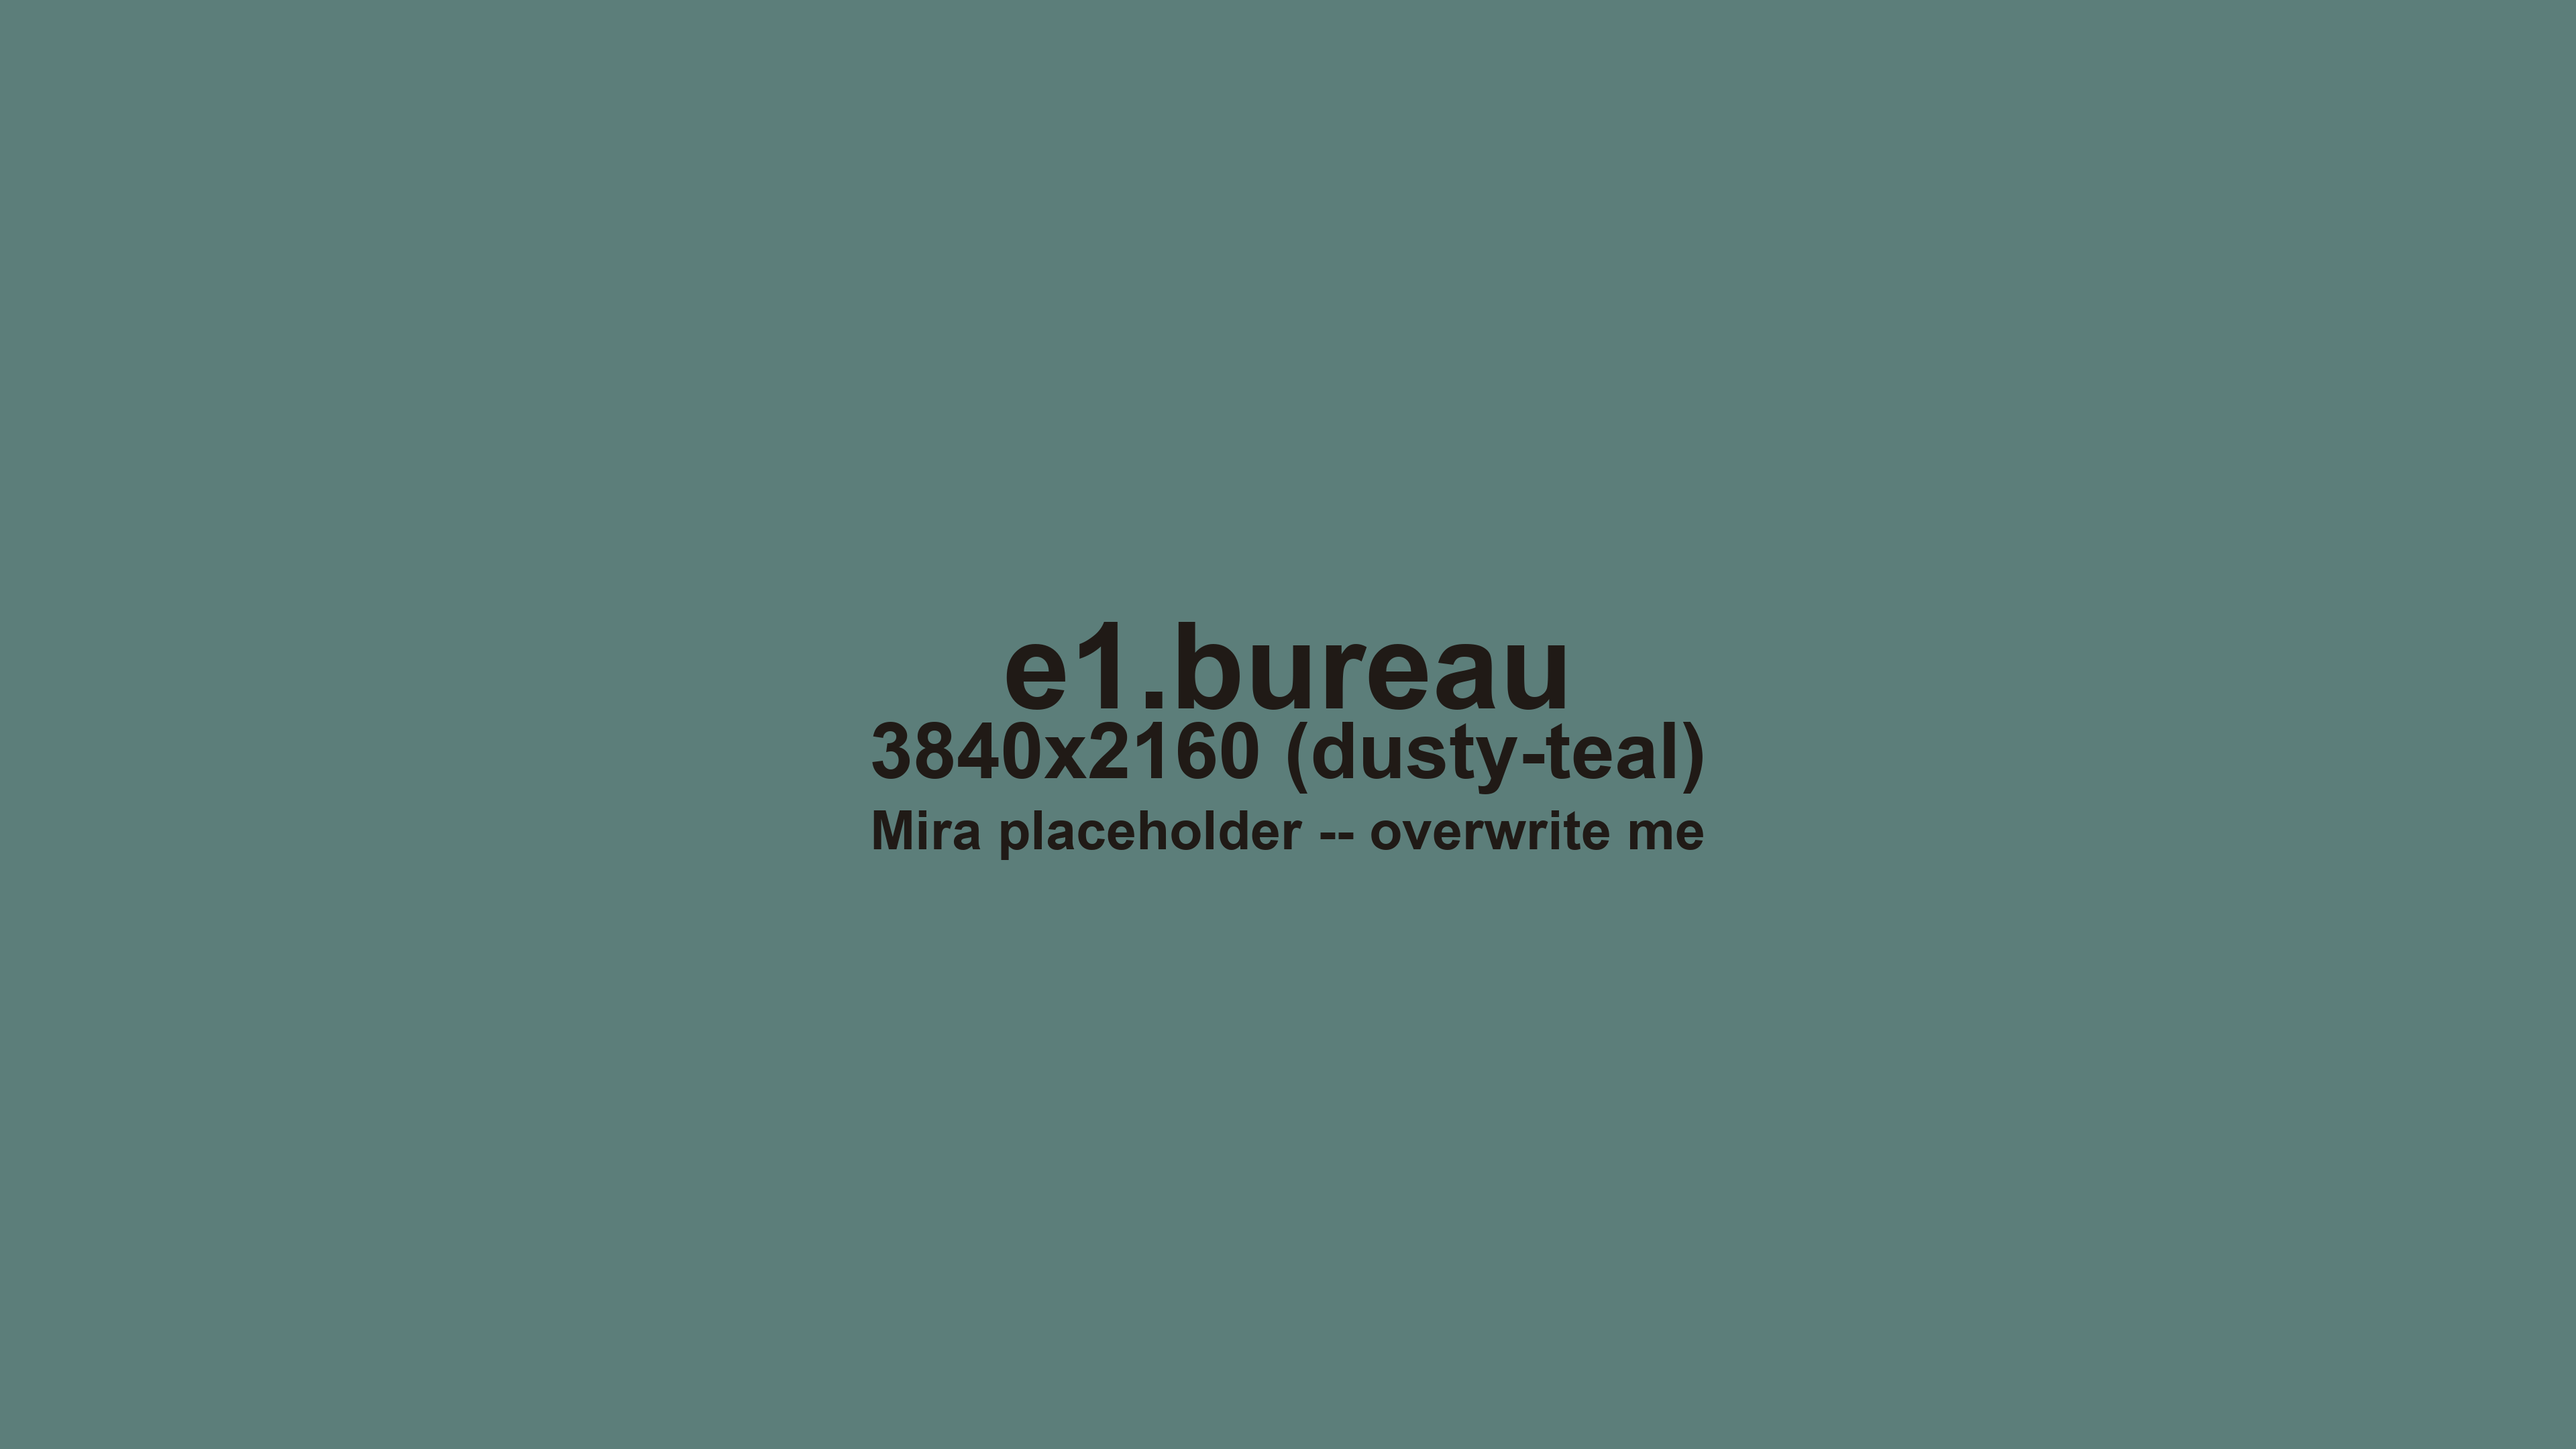
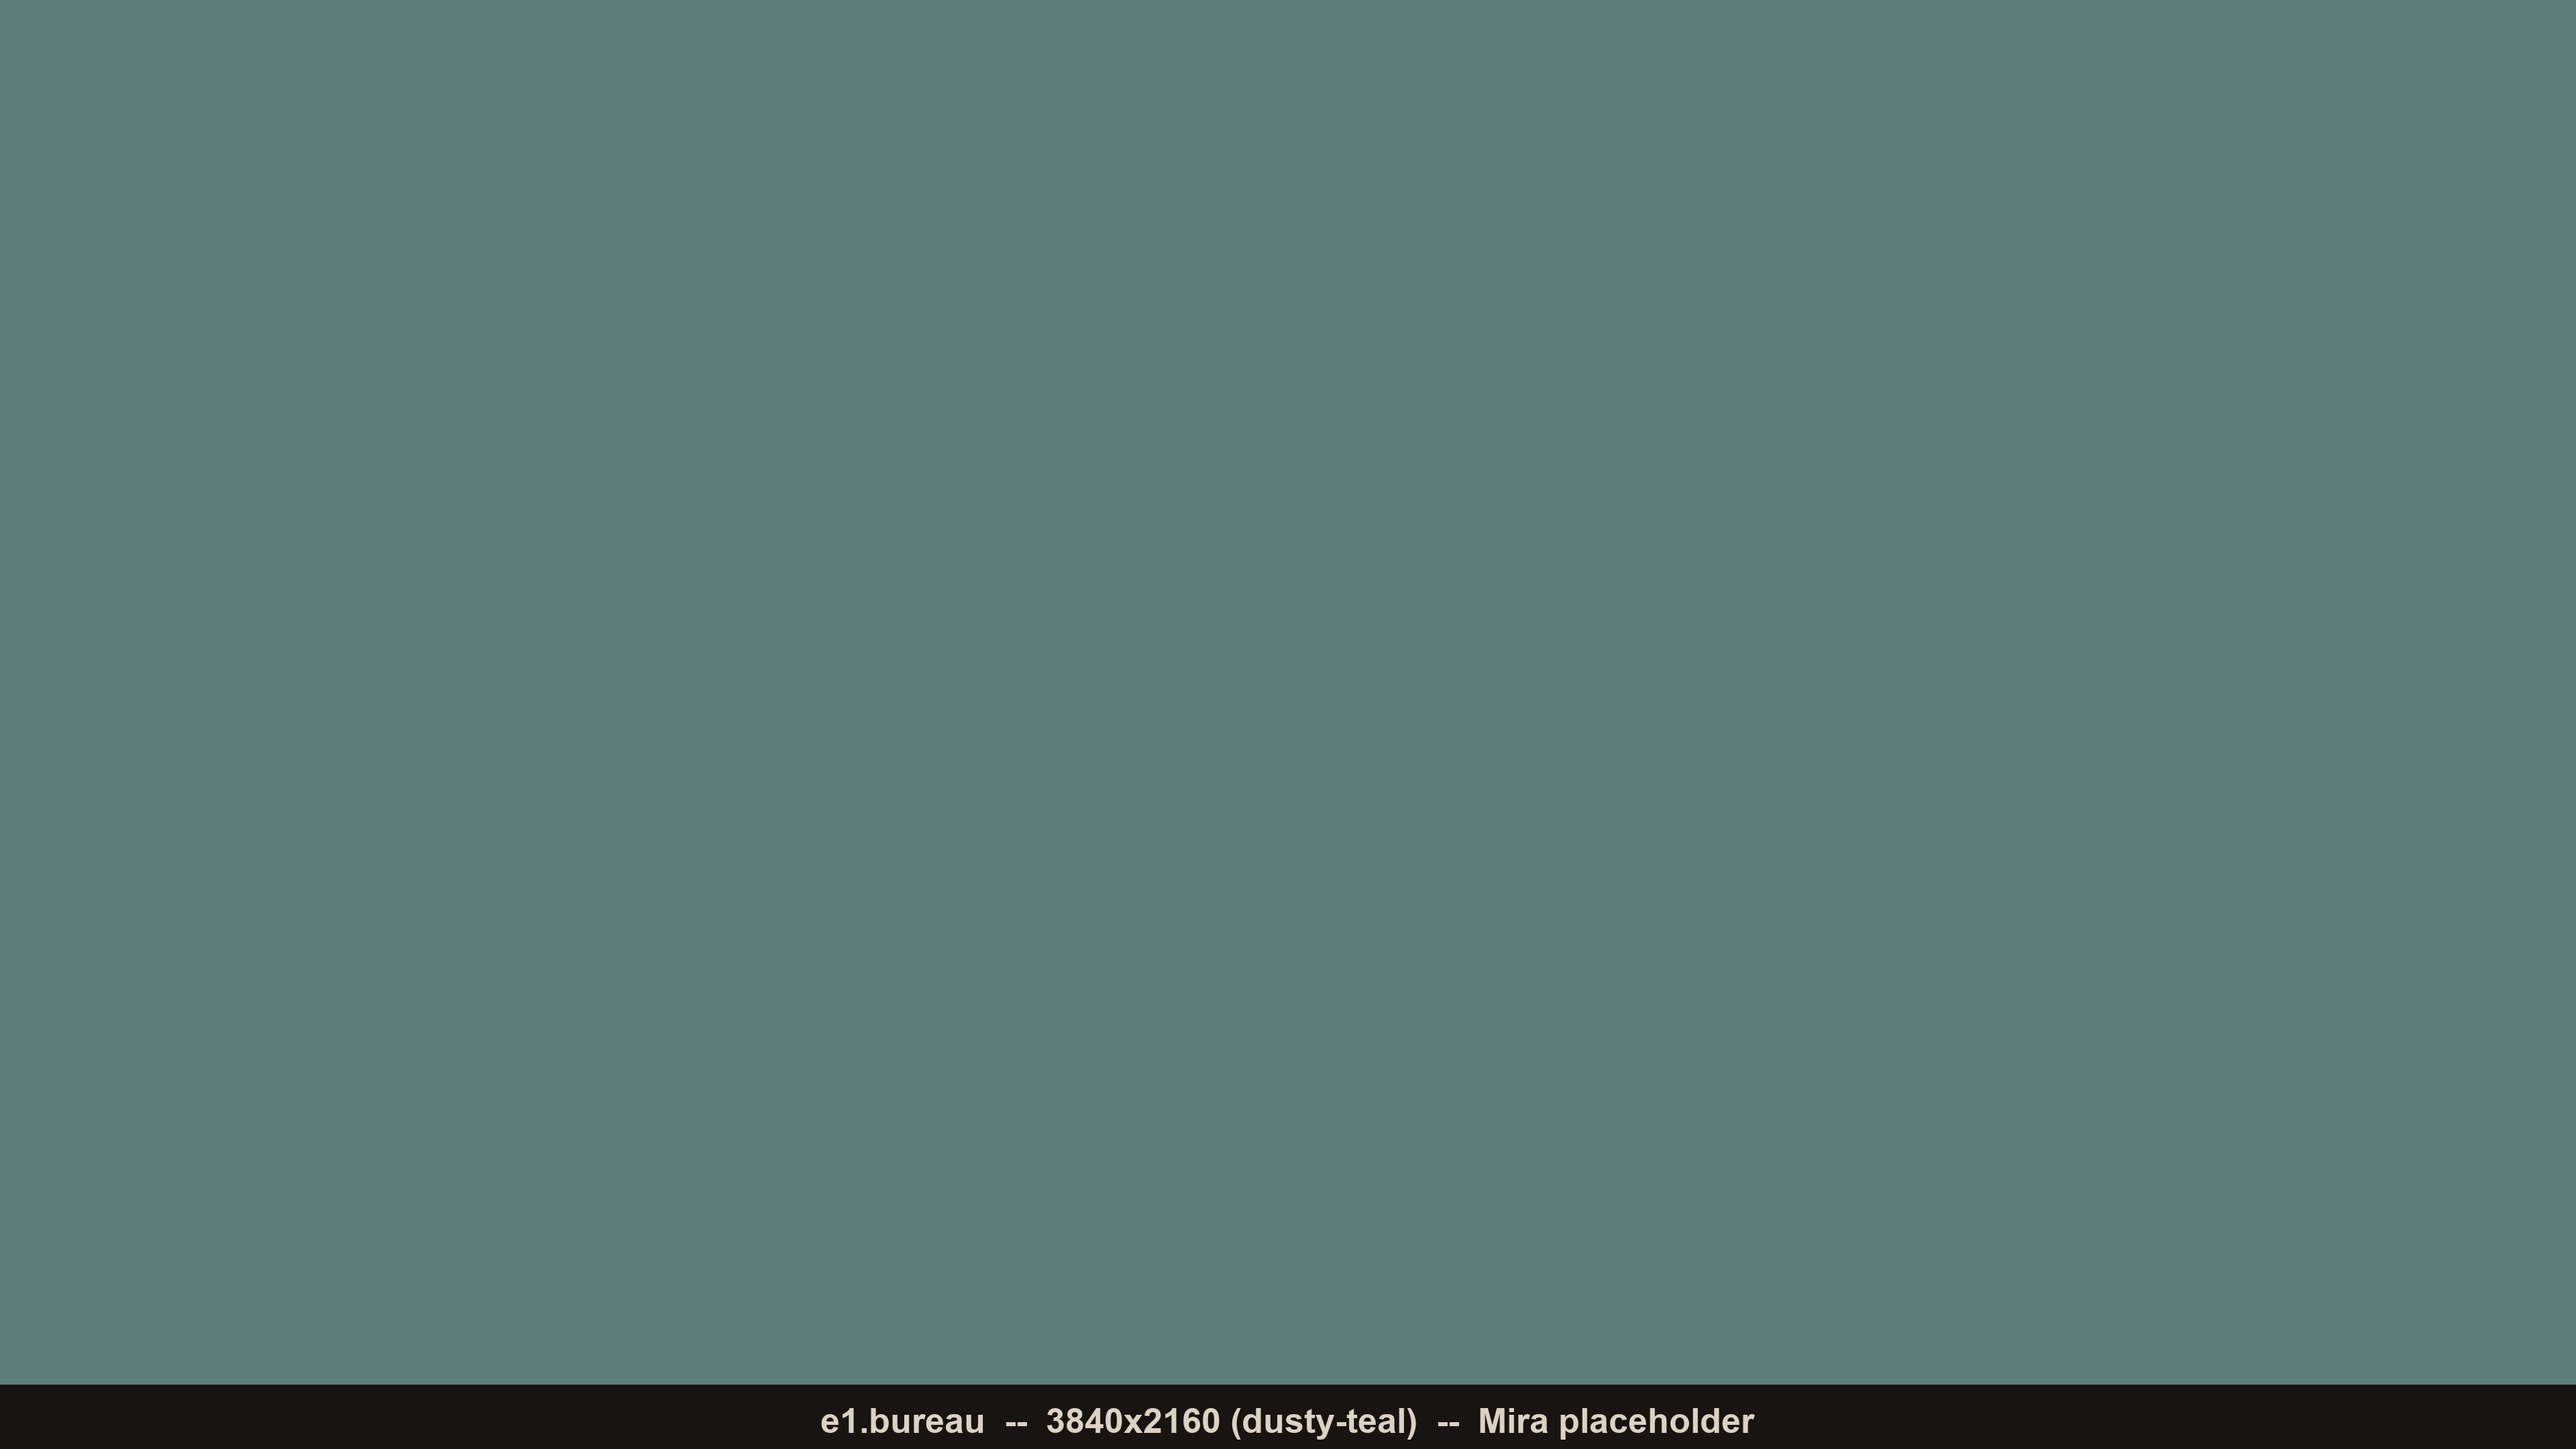
fix(client): E1 polish -- placeholder text no longer transpaire under buttons
The 3-lines-of-centered-text layout from generate_asset_placeholders.py
landed at the visible center of every placeholder PNG. When a placeholder
served as a frame asset (e1.buttons_frame is the salient case), the text
stack rendered behind the [03] Reglages techniques button in E1 Title --
fragments of "e1.buttons_frame", "2048x2048 (weathered-grey)" and "Mira
placeholder -- overwrite me" all visible in the gaps between buttons.

Move identification metadata into a thin dark slate bar along the bottom
edge (~8% of image height, capped) with a single compact line. The center
stays a clean color aplat. With KeepAspectCovered on a 560x440 UI rect,
the slate lands within the existing 32px bottom margin of ButtonsFrame,
so it does not chevauche the [04] Refermer button either.

Regenerated all 26 placeholders with --force. No real Mira art was
overwritten -- inspection (color count + file size) confirmed every
PNG under client/assets/wayfinders_visual_assets/ was still a
script-generated placeholder.

Changed region(s): [[0.0, 0.9306, 1.0, 1.0], [0.3125, 0.4343, 0.6562, 0.5894]]

diff --git a/tools/generate_asset_placeholders.py b/tools/generate_asset_placeholders.py
@@ -11,11 +11,19 @@ Usage
 The script is idempotent: existing PNGs are skipped unless ``--force`` is
 passed. Each placeholder is a solid-color rectangle (palette derived from
 Mira's locked palette, picked deterministically by hashing the asset key)
-with three centered text lines:
+plus a thin dark identification bar along the bottom edge with a single
+compact label line:
 
-    1. The asset key (e.g. ``e1.bureau``).
-    2. The intended resolution parsed from the filename (e.g. ``3840x2160``).
-    3. ``Mira placeholder -- overwrite me``.
+    e1.buttons_frame -- 2048x2048 (weathered-grey)
+
+The center of the image stays a clean color aplat. Rationale: when a
+placeholder PNG is used as a frame asset (e.g. ``e1.buttons_frame``)
+underneath UI buttons, the legacy 3-lines-of-centered-text layout would
+visibly transpaire between/around the buttons. Concentrating the
+identification metadata into a thin bottom slate keeps the asset
+identifiable when opened in a file explorer or the Godot import preview,
+without polluting the visible center of the placeholder when the image
+is composited under UI. (Bug fix 2026-05-09.)
 
 Naming convention parsed from filename: ``..._<W>x<H>.png``. If the regex
 fails the file is skipped with a clear warning -- the key map should be
@@ -63,9 +71,9 @@ PALETTE = [
     ("weathered-grey", (112, 110, 102)),  # #706E66
 ]
 
-# Dark stamp-ink color for the centered text overlay. Stays readable on every
-# palette entry above.
-TEXT_COLOR = (32, 26, 22)
+# Slate (bottom identification bar) colors.
+SLATE_BG = (24, 20, 18)  # near-black ink
+SLATE_FG = (220, 210, 192)  # parchment cream
 
 RES_REGEX = re.compile(r"_(\d+)x(\d+)\.png$", re.IGNORECASE)
 
@@ -117,47 +125,45 @@ def render_placeholder(
     palette_name: str,
     palette_rgb: tuple[int, int, int],
 ) -> None:
+    """Render the placeholder. Center is a clean color aplat ; identification
+    metadata sits in a thin slate bar at the bottom edge so it does not
+    transpaire through UI when the placeholder is used as a frame.
+    """
     out_path.parent.mkdir(parents=True, exist_ok=True)
 
     image = Image.new("RGB", (width, height), palette_rgb)
     draw = ImageDraw.Draw(image)
 
-    # Pick a text size that scales with the smaller image dimension. We keep
-    # all three text lines comfortably inside the placeholder regardless of
-    # aspect ratio.
-    base_size = max(24, min(width, height) // 12)
-    title_font = find_font(base_size)
-    subtitle_font = find_font(int(base_size * 0.65))
-    footnote_font = find_font(int(base_size * 0.45))
+    # Slate bar: 8% of the image height, capped to a sane absolute range so
+    # tiny 256x256 markers still get a readable label and large 3840x2160
+    # backgrounds do not waste 300px of vertical real estate.
+    slate_h = max(28, min(height // 12, 96))
+    slate_top = height - slate_h
+    draw.rectangle((0, slate_top, width, height), fill=SLATE_BG)
 
-    line1 = asset_key
-    line2 = f"{width}x{height} ({palette_name})"
-    line3 = "Mira placeholder -- overwrite me"
+    # Single-line identification label inside the slate bar.
+    label = f"{asset_key}  --  {width}x{height} ({palette_name})  --  Mira placeholder"
+    # Aim for label height around 60% of slate height ; clamp to a font we
+    # can actually load.
+    label_size = max(12, int(slate_h * 0.55))
+    label_font = find_font(label_size)
 
-    # Compute total stack height to vertically center the text block.
     def text_size(text: str, font: ImageFont.ImageFont) -> tuple[int, int]:
-        # Pillow >= 9 uses textbbox; older versions fallback to textsize.
         if hasattr(draw, "textbbox"):
             x0, y0, x1, y1 = draw.textbbox((0, 0), text, font=font)
             return x1 - x0, y1 - y0
         return draw.textsize(text, font=font)  # type: ignore[attr-defined]
 
-    w1, h1 = text_size(line1, title_font)
-    w2, h2 = text_size(line2, subtitle_font)
-    w3, h3 = text_size(line3, footnote_font)
+    # If the label is wider than the image, drop progressively to fit.
+    lw, lh = text_size(label, label_font)
+    while lw > width - 16 and label_size > 10:
+        label_size -= 2
+        label_font = find_font(label_size)
+        lw, lh = text_size(label, label_font)
 
-    gap = max(8, base_size // 6)
-    total_h = h1 + gap + h2 + gap + h3
-    start_y = (height - total_h) // 2
-
-    draw.text(((width - w1) // 2, start_y), line1, fill=TEXT_COLOR, font=title_font)
-    draw.text(((width - w2) // 2, start_y + h1 + gap), line2, fill=TEXT_COLOR, font=subtitle_font)
-    draw.text(
-        ((width - w3) // 2, start_y + h1 + gap + h2 + gap),
-        line3,
-        fill=TEXT_COLOR,
-        font=footnote_font,
-    )
+    label_x = max(8, (width - lw) // 2)
+    label_y = slate_top + (slate_h - lh) // 2
+    draw.text((label_x, label_y), label, fill=SLATE_FG, font=label_font)
 
     image.save(out_path, format="PNG", optimize=True)
 
